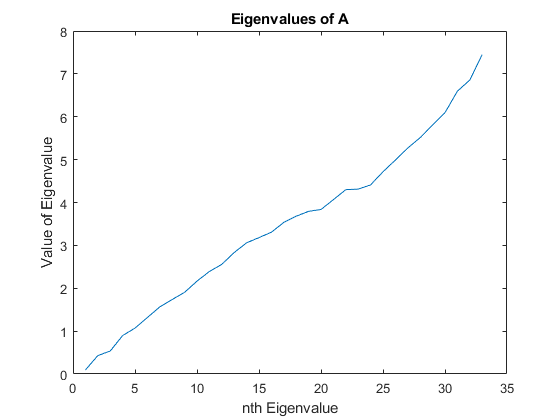
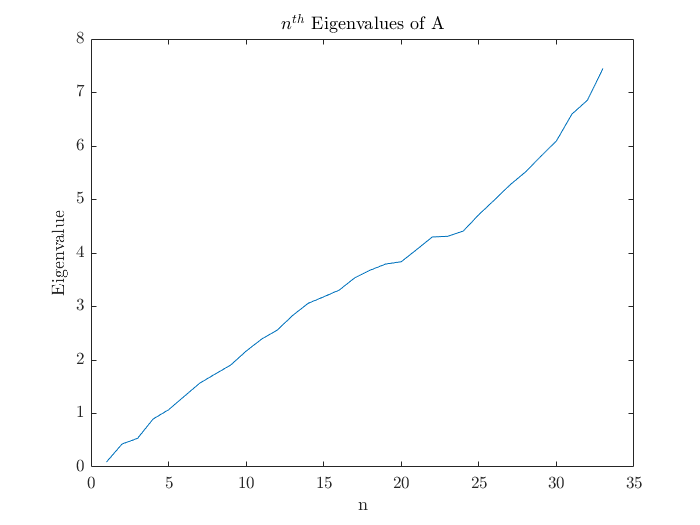
More changes

diff --git a/Report/Report.tex b/Report/Report.tex
@@ -13,6 +13,7 @@
 \usepackage{minted}
 \setminted{frame=single,framesep=10pt,breaklines,linenos}
 \setcounter{secnumdepth}{4}
+\allowdisplaybreaks
 \tikzset{
     node distance=2cm, % specifies the minimum distance between two nodes. Change if necessary.
     }
@@ -300,12 +301,25 @@ For example, the equation
 will transform into
 \[2T_0-T_1-T_6=0.\]
 \subsection{Matrix Construction}
-Using our node ordering, we can write out all the equations in a certain ordering (See Appendix A1). This can then be rewritten as a linear system, $Ax=b$, where $A$ is the coefficient matrix of the equations, $x$ is the unknown temperature values and b is the right hand side values of the equations.\\\\Using the spy() command on $A$, we can see that it has a banded structure, noting that it has a total bandwidth of 13.\\\includegraphics{images/spyA.png}
+Using our node ordering, we can write out all the equations in a certain ordering (See Appendix A1). This can then be rewritten as a linear system, $Ax=b$, where $A$ is the coefficient matrix of the equations, $x$ is the unknown temperature values and b is the right hand side values of the equations.\\\\Using the spy() command on $A$, we can see that it has a banded structure, noting that it has a total bandwidth of 13.
+\begin{figure}[H]
+	\includegraphics[width=\linewidth]{images/spyA.png}
+	\caption{Spy of $A$.}
+	\label{fig:spyA}
+\end{figure}
 \subsection{Checking SPD}
-The matrix $A$ is both symmetric and positive definite. This can be verified with Matlab.\\If $A$ is symmetric, then for all $(i, j)\in$ dim$(A), A(i, j) = A(j, i)$. To check that it is symmetric, the matrix minus its transpose can be plotted. If all the values are zero, then it is symmetric.\\\includegraphics{images/spySymmetric.png}
+The matrix $A$ is both symmetric and positive definite. This can be verified with Matlab.\\If $A$ is symmetric, then for all $(i, j)\in$ dim$(A), A(i, j) = A(j, i)$. To check that it is symmetric, the matrix minus its transpose can be plotted. If all the values are zero, then it is symmetric.
+\begin{figure}[H]
+	\includegraphics[width=\linewidth]{images/spySymmetric.png}
+	\caption{Spy of $A-A'$.}
+	\label{fig:spySymmetric}
+\end{figure}
 The spy command produces a plot graph with plots in coordinates where the value of the matrix (at the same coordinate) is not zero. Since the figure produced by the spy command has no plots, every value in the matrix A-A' is zero, which implies that A is symmetric.
-\\\\To show that A is positive definite, it is enough to show that the eigenvalues are all positive. Plotting the values of the eigenvalues along an axis representing the $n^{th}$ eigenvalue yields\\\includegraphics{images/eigenvaluePlot.png}
-
+\\\\To show that A is positive definite, it is enough to show that the eigenvalues are all positive. Plotting the values of the eigenvalues along an axis representing the $n^{th}$ eigenvalue yields\begin{figure}[H]
+	\includegraphics[width=\linewidth]{images/eigenvaluePlot.png}
+	\caption{Eigenvalues of $A$.}
+	\label{fig:eigenvalues}
+\end{figure}
 
 \section{Storage and Solutions}
 In this section, direct and iterative methods are used to solve for the vector $x$, such that:
@@ -348,9 +362,39 @@ The next step is to convert the RCM ordering to a banded storage matrix, denoted
 A(i,j)\to B(i,j-i+1), \text{ where } i,j < \text{dim}(A).
 \end{align*}
 To perform Cholesky factorisation on this matrix, and keeping the factorised matrix in the same dimension, the regular Cholesky factorisation method can be retooled using the previously mentioned mapping for band storage.
-The new algorithm must now check that the index $j-i+1$ is within the width of the matrix, as the column is less than the row count, and trying to access $A(i,j-i+1)$ would result in an error if $j-i+1$ was greater than the number of columns. In the original matrix, these values would have just been 0, and no change would happen.\\\\Performing the Banded Cholesky algorithm on the banded matrix yields\\\includegraphics{images/cholband.png}\\It can be seen that the fill-in of this storage method is 81.\\To use this factorised matrix, a new forward and backward method must be constructed. Luckily, the previous mapping can still be used. Care must be taken when working in a non-square matrix in both forward and backward substitution, as it is still possible to access elements outside of the new array. Adding checks before accessing the array to make sure the given index is within the bounds of the array solves the problem, as any element outside of the array would just be zero, and performing no operation results in the same outcome. The mapping is also substituted into the forward and backward substitution algorithms.\\\\Solving the system of equations using the new forward and backward substitution, the following heatmap of the component is obtained.\\\includegraphics{images/bandsolution.png}
+The new algorithm must now check that the index $j-i+1$ is within the width of the matrix, as the column is less than the row count, and trying to access $A(i,j-i+1)$ would result in an error if $j-i+1$ was greater than the number of columns. In the original matrix, these values would have just been 0, and no change would happen.\\\\Performing the Banded Cholesky algorithm on the banded matrix yields
+\begin{figure}[H]
+	\begin{center}
+		\includegraphics[width=0.3\linewidth]{images/cholband.png}
+		\caption{Spy of Banded $A$ after the Cholesky.}
+		\label{fig:cholband}
+	\end{center}
+\end{figure}
+It can be seen that the fill-in of this storage method is 81.\\To use this factorised matrix, a new forward and backward method must be constructed. Luckily, the previous mapping can still be used. Care must be taken when working in a non-square matrix in both forward and backward substitution, as it is still possible to access elements outside of the new array. Adding checks before accessing the array to make sure the given index is within the bounds of the array solves the problem, as any element outside of the array would just be zero, and performing no operation results in the same outcome. The mapping is also substituted into the forward and backward substitution algorithms.\\\\Solving the system of equations using the new forward and backward substitution, the following heatmap of the component is obtained.
+\begin{figure}[H]
+	\includegraphics[width=\linewidth]{images/bandsolution.png}
+	\caption{Solution using Band Storage.}
+	\label{fig:bandsolution}
+\end{figure}
 \subsection{Sparse Storage}
-A sparse system is a matrix that has no structure to where the non-zero elements appear, but still has a large number of zero values. To pre-emptively reduce the fill-in from the Cholesky factorisation, Approximate Minimum Degree (AMD) is used to reorder the A matrix. An AMD permutation will change the ordering of the matrix such that it has when Cholesky factorisation is performed, many of the zero values will stay zero. This reduces storage space when the new factorised matrix is stored using sparse storage, and can reduce runtime when implemented properly. In this case, sparse storage was only used to demonstrate storage benefits.\\\\Using matlab's inbuilt \textbf{symamd} function, the following matrix is obtained\\\includegraphics{images/A_SPARSE.png}\\This can be stored in sparse storage using Matlab's \textbf{sparse} function. The size of the sparse matrix is only 2528 bytes, nearly 3.5 times smaller. The Cholesky algorithm is changed to check if any value at the index it accesses is 0 and if it is, it skips performing the operation involving that index. This reduces the flop count of the algorithm, but increases computation time due to if statements being inefficient when accessing a sparse matrix on Matlab. Viewing the AMD ordered factorised matrix, it can be seen that the fill-in is fairly small.\\\includegraphics{images/A_SPARSE_CHOL.png}\\Looking at the difference in the number of non-zero elements, it can be seen that the fill in using AMD ordering is 53. The final heatmap is \\\includegraphics{images/sparsestorage.png}
+A sparse system is a matrix that has no structure to where the non-zero elements appear, but still has a large number of zero values. To pre-emptively reduce the fill-in from the Cholesky factorisation, Approximate Minimum Degree (AMD) is used to reorder the A matrix. An AMD permutation will change the ordering of the matrix such that it has when Cholesky factorisation is performed, many of the zero values will stay zero. This reduces storage space when the new factorised matrix is stored using sparse storage, and can reduce runtime when implemented properly. In this case, sparse storage was only used to demonstrate storage benefits.\\\\Using matlab's inbuilt \textbf{symamd} function, the following matrix is obtained
+\begin{figure}[H]
+	\includegraphics[width=\linewidth]{images/A_SPARSE.png}
+	\caption{Spy of $A$ Sparse.}
+	\label{fig:A_SPARSE}
+\end{figure}
+This can be stored in sparse storage using Matlab's \textbf{sparse} function. The size of the sparse matrix is only 2528 bytes, nearly 3.5 times smaller. The Cholesky algorithm is changed to check if any value at the index it accesses is 0 and if it is, it skips performing the operation involving that index. This reduces the flop count of the algorithm, but increases computation time due to if statements being inefficient when accessing a sparse matrix on Matlab. Viewing the AMD ordered factorised matrix, it can be seen that the fill-in is fairly small.
+\begin{figure}[H]
+	\includegraphics[width=\linewidth]{images/A_SPARSE_CHOL.png}
+	\caption{Spy of $A$ Sparse after Cholesky factorisation.}
+	\label{fig:A_SPARSE_CHOL}
+\end{figure}
+Looking at the difference in the number of non-zero elements, it can be seen that the fill in using AMD ordering is 53. The final heatmap is
+\begin{figure}[H]
+	\includegraphics[width=\linewidth]{images/sparsestorage.png}
+	\caption{Sparse Solution.}
+	\label{fig:sparsestorage}
+\end{figure}
 
 \subsection{Compressed Sparse Row Format Storage}
 \textbf{Compressed sparse row format} (CSR), stores all the non-zero elements that are in a given matrix and it's respected row and column indices of these non-zero elements. CSR consists of three arrays: \textbf{rb} which stores the index of where each new row begins in both \textbf{c} and \textbf{v}; \textbf{c} which consists of the column indices; and \textbf{v} which contains the value of these elements. $\textbf{rb}$ ends with $nz + 1$, where $nz$ is the total number of non-zero elements in $A$.
@@ -472,13 +516,17 @@ The Jacobi method required the most iterations to converge, followed by Gauss-Se
 \end{figure}
 
 \subsection{Runtime (Direct and Iterative)}
-The runtime for solving $x$ using each type of storage was calculated using Matlab's built in functionality (tic and toc). The runtime
+The runtime for solving $x$ using each type of storage was recorded using Matlab's built in functionality (tic and toc). The runtime was recorded between the time taken to solve for $x$ with the storage for $A$ already calculated. Calculations, for example, $\omega_{opt}$ were not counted towards the runtime. Cholesky factorisation, forward substitution, backwards substitution, Jacobi method, Gauss-Seidel method, SOR method, and Conjugate Gradient Method were the only calculations counted towards the runtime.
+\\\\
+The calculations for each storage was run $100$ times each then averaged out to get a more accurate representation of the runtime.
 \begin{figure}[H]
 	\includegraphics[width=\linewidth]{images/RuntimeGraph.png}
 	\caption{Runtime for solving each of the Direct and Iterative Methods.}
 	\label{fig:runtime}
 \end{figure}
-
+Figure \ref{fig:runtime} clearly shows that the iterative methods generally took the longest to execute, with the exception of the Sparse Solution. Sparse storage took longer to factorise using Cholesky compared to the other storages using Cholesky as the if statements are inefficient in the algorithm.
+\\\\
+The Full Storage took the least amount of time comparitively to all the 
 
 \subsection{Floating Point Operations (Direct and Iterative)}
 \textbf{Floating point operation count} (flop count) is referred to as the number of arithmetic operations performed by an algorithm during its execution. For the direct and iterative methods, the flop count was calculated for every multiplication and addition. A flop was counted for every multiplication and addition in the nested for loops. However, this is only an estimation as some of the multiplications are performing more than one flop, but are only counted as one.

diff --git a/MATLAB/case_study_code.m b/MATLAB/case_study_code.m
@@ -3,14 +3,14 @@ format compact
 %%
 %Check SPD
 load full_storage
-spy(A-A')
-title('A-A''')
 
 eigens = eig(A);
+figure
 plot(eigens)
-title('nth Eigenvalues of A')
-xlabel('n')
-ylabel('Eigenvalue')
+title('$n^{th}$ Eigenvalues of A', 'Interpreter', 'latex')
+xlabel('n', 'Interpreter', 'latex')
+ylabel('Eigenvalue', 'Interpreter', 'latex')
+set(gca,'TickLabelInterpreter','latex')
 
 %%
 % Storage and Solution
@@ -64,7 +64,8 @@ set(gca,'TickLabelInterpreter','latex')
 [temperatures, sparse_flops, ~, A_sparse, sparseChol] = sparse_storage_solution;
 visualisation(temperatures, 'Sparse Storage Solution')
 fill_in_sparse = nnz(sparseChol) - nnz(A_sparse);
-bandwidth_sparse = bandwidth(sparse);
+bandwidth_sparse = bandwidth(A_sparse);
+
 figure
 spy(A_sparse)
 title('$A_\mathrm{Sparse}$', 'Interpreter', 'latex')

diff --git a/MATLAB/AverageRunTime.m b/MATLAB/AverageRunTime.m
@@ -3,7 +3,7 @@ function average_run_time = AverageRunTime
 average_run_time = zeros(8,1); %Average runtime 
 
 % Run the code 1000 times, then average the runtimes
-for i = 1:100
+for i = 1:1000
     [~, ~, time] = full_storage_solution;
     average_run_time(1) = average_run_time(1) + time;
     
@@ -30,4 +30,4 @@ for i = 1:100
     
 end
 
-average_run_time./100;
+%average_run_time./100;
